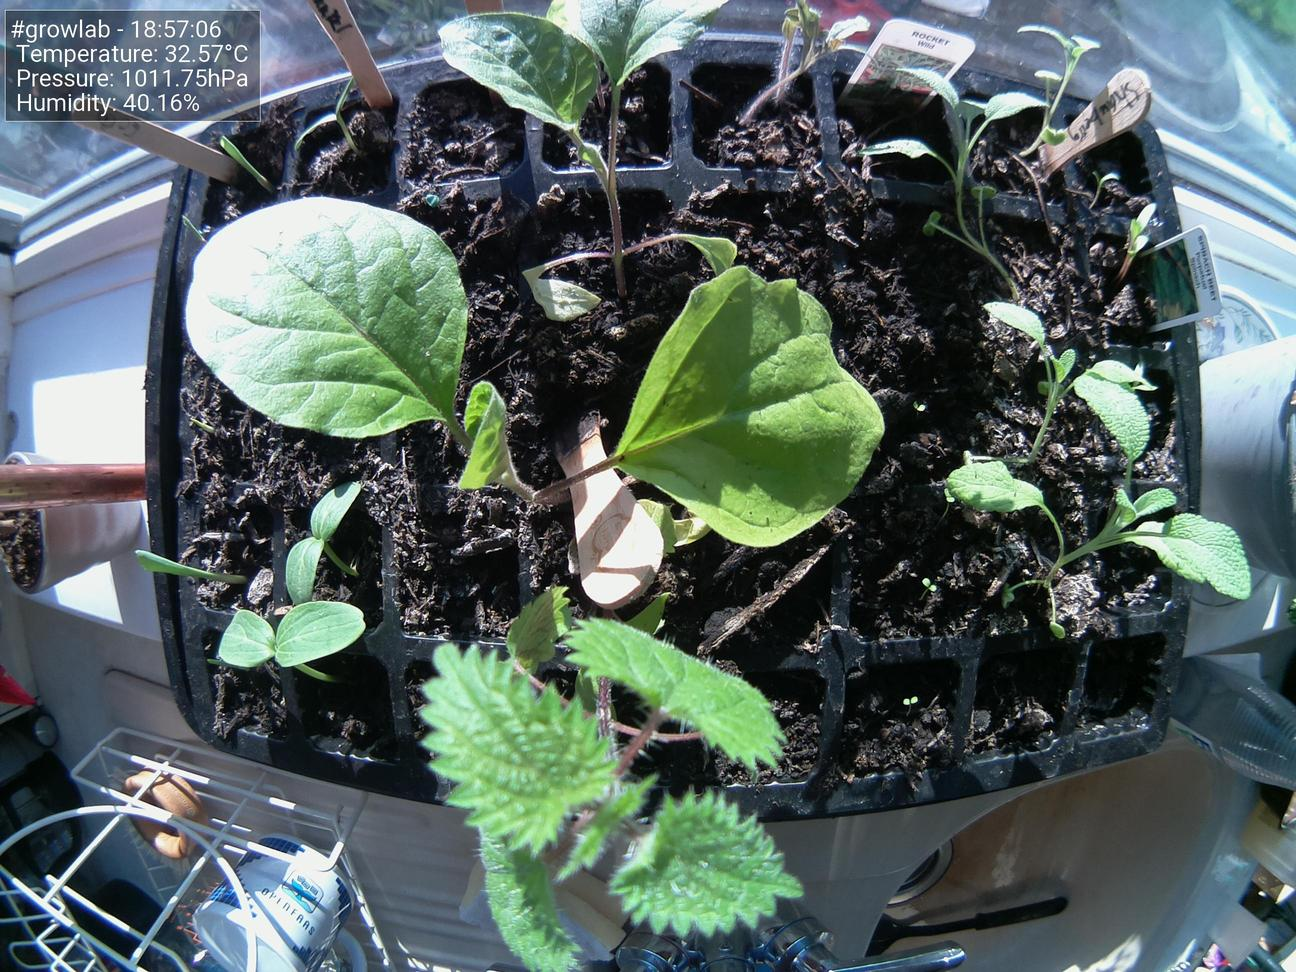
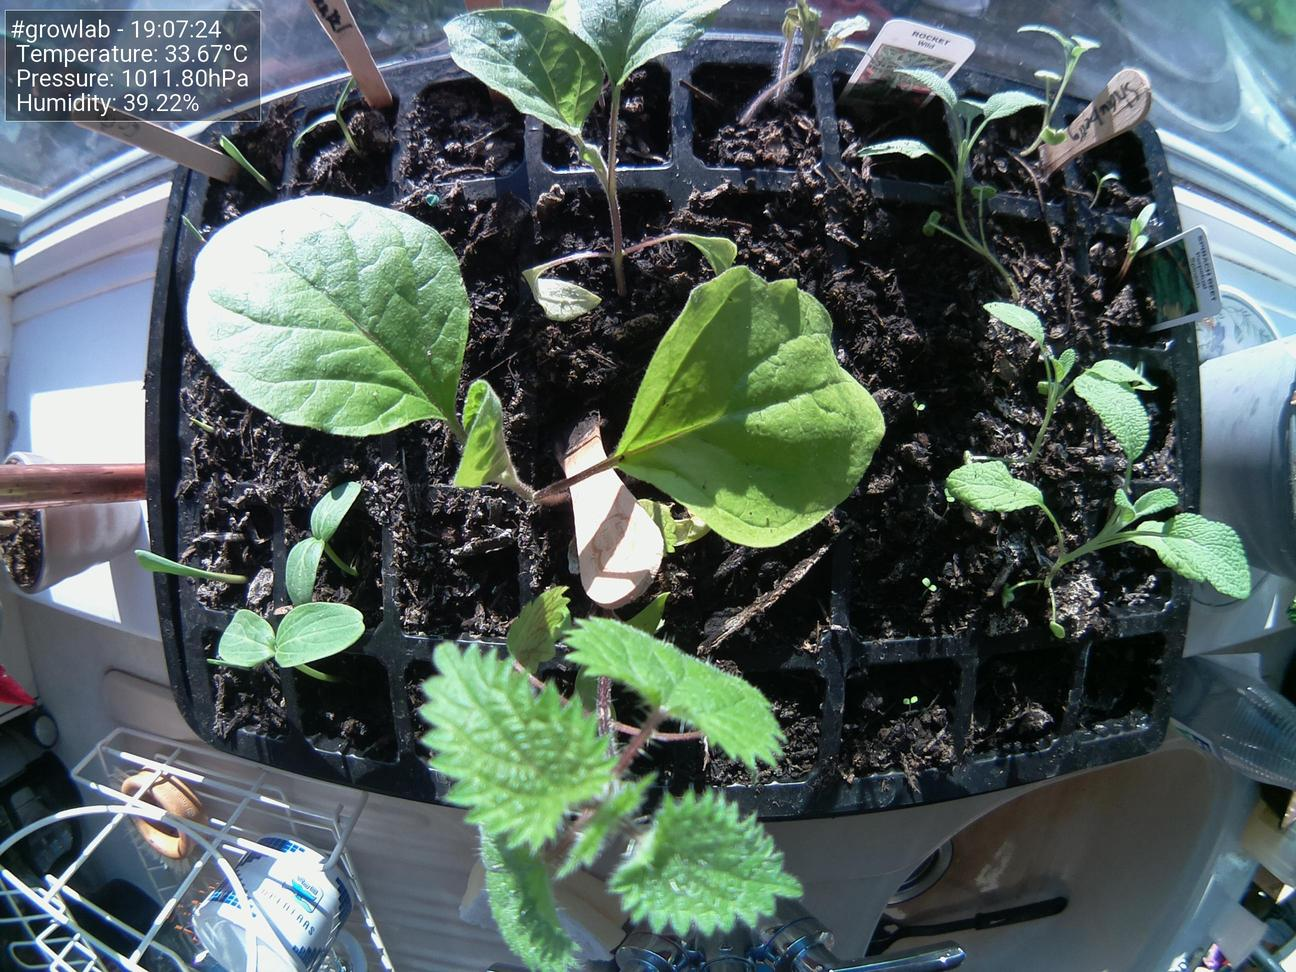
Update images at Tue 25 May 19:07:33 BST 2021

diff --git a/docs/index.html b/docs/index.html
@@ -47,19 +47,19 @@
                         <tbody>
                             <tr>
                                 <td>Time</td>
-                                <td>18:57:06</td>
+                                <td>19:07:24</td>
                             </tr>
                             <tr>
                                 <td>Temperature</td>
-                                <td>32.57°C</td>
+                                <td>33.67°C</td>
                             </tr>
                             <tr>
                                 <td>Humidity</td>
-                                <td>40.16%</td>
+                                <td>39.22%</td>
                             </tr>
                             <tr>
                                 <td>Pressure</td>
-                                <td>1011.75hPa</td>
+                                <td>1011.80hPa</td>
                             </tr>
                         </tbody>
                     </table>
@@ -67,7 +67,7 @@
 
                 <h5>Latest image</h5>
                 <div style="width: 85%;">
-                            <img class="figure-img img-fluid rounded" src="./preview.jpg?uid=1621965435.2788248">
+                            <img class="figure-img img-fluid rounded" src="./preview.jpg?uid=1621966052.744175">
                 </div>
             </div>
         </div>
